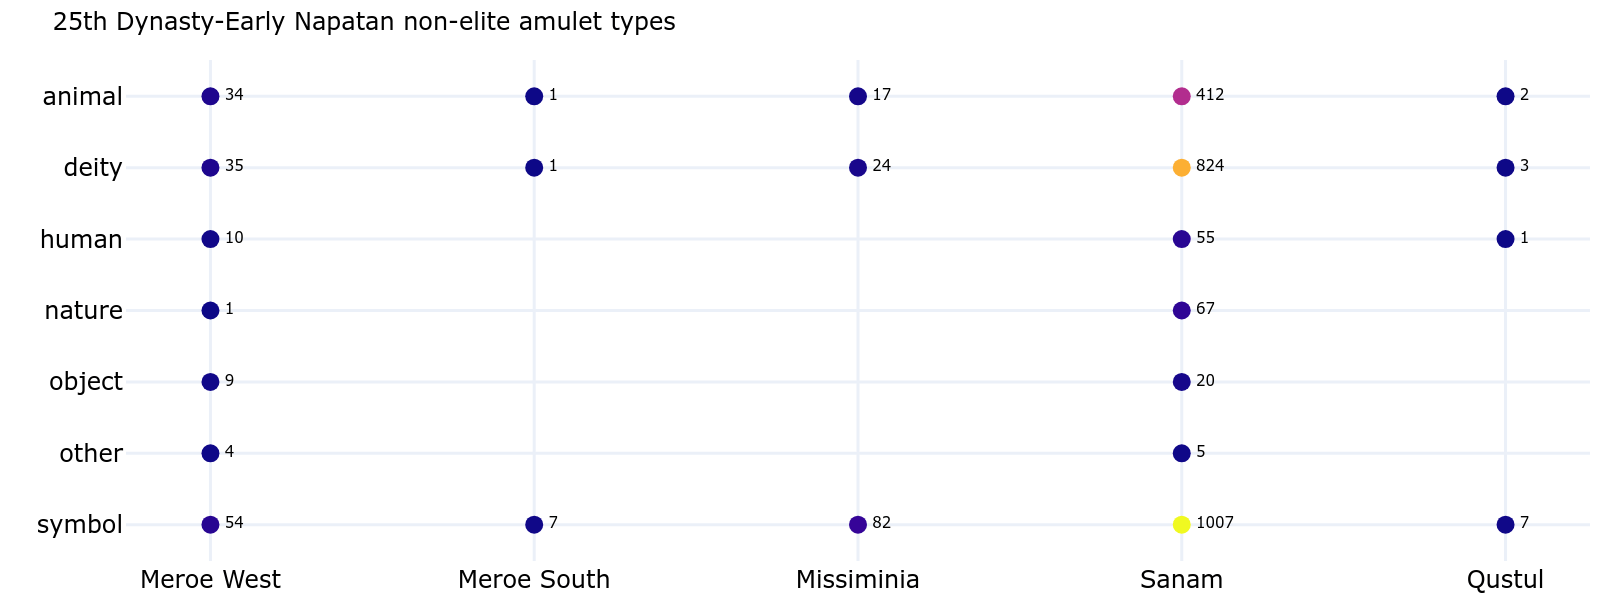
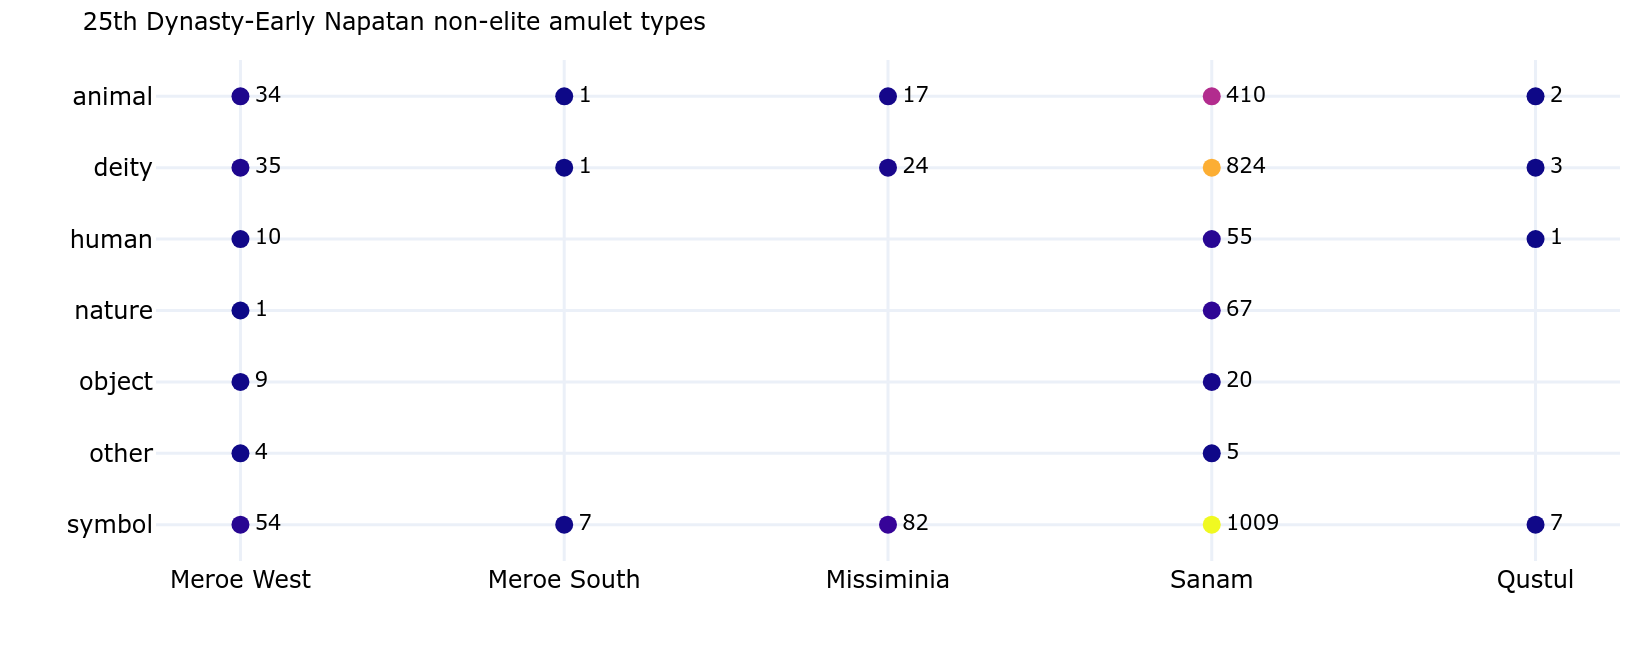
revision chapter 5, until 25th-EN

diff --git a/chapters/5-chapter5.tex b/chapters/5-chapter5.tex
@@ -836,13 +836,13 @@ Conversely, the three amethyst amulets were found in different tombs and represe
 \end{figure}
 
 
-Non-elite tombs from the 25th Dynasty-Early Napatan phase were distributed across Meroe South (19), Meroe West (56), Missiminia (135), Qustul (32) and Sanam (1421) (Figure \ref{fig:25-EN-tombs}). All graves from the latter two sites were dated to this period. In total, there are 1674 burials. The structures were not much different from previous non-elite tombs, with the majority of substructures as pits. Although, two burials from Sanam were found in staircases of previous tombs and, therefore, were considered a different category. It is likely that these were members of the same family who were interred afterwards. According to the reports, 72 graves from both cemeteries at Meroe lacked any superstructure. The remaining graves appear to have been covered by one, its original form unknown.
+Non-elite tombs from the 25th Dynasty-Early Napatan phase were distributed across Meroe South (19), Meroe West (56), Missiminia (135), Qustul (32) and Sanam (1421) (Figure \ref{fig:25-EN-tombs}). All graves from the latter two sites were dated to this period. In total, there are 1674 burials. The structures were not much different from previous non-elite tombs, with the majority of substructures as pits. Although, two burials from Sanam were found in staircases of previous tombs and, therefore, were considered a different category. These burials could either be intrusive or belong to members of the same family who were interred afterwards. According to the reports, 72 graves from both cemeteries at Meroe lacked any superstructure. The remaining graves appear to have been covered by one, although its original form could not be determined.
 
 
-These tombs exhibited a wider variety of architectural features than previous non-elite tombs. The distribution of these features, however, was highly uneven, with most occurring infrequently (Figure \ref{fig:25-EN-tomb-elements}). Trenches were the most widespread feature, present at most sites with the exception of Qustul. These trenches may have functioned to accommodate burial bed legs or for the storage of grave goods. In contrast, bed holes were far rarer, found in just over 2\% of tombs and absent at Missiminia and Sanam.
+These tombs exhibited a wider variety of architectural features than previous non-elite tombs. The distribution of these features, however, was highly uneven, with most occurring infrequently (Figure \ref{fig:25-EN-tomb-elements}). Trenches were the most widespread feature, present at most sites, with the exception of Qustul. These trenches may have functioned to accommodate burial bed legs or for the storage of grave goods. In contrast, bed holes were far rarer, found in just over 2\% of tombs and absent at Missiminia and Sanam.
 
 
-The most common feature was the brick-lined pit, present in over 46\% of burials across Missiminia, Qustul, and Sanam. This was followed by brick roofs (13\%) and niches (8.1\%). Access to burial pits varied: at Missiminia, pits were entered via stairs or slopes (with stairs being more popular), while at Sanam, only stairs were used.
+The most common feature was the brick-lined pit, present in over 46\% of burials across Missiminia, Qustul, and Sanam. This was followed by brick roofs (13\%) and niches (8.1\%). Access to burial pits varied: at Missiminia, pits could be entered via stairs or slopes (with stairs being more popular), while at Sanam, if there was an entrance, it was always stairs.
 
 
 The combination of features also differed by cemetery. The tombs at Meroe South and West had less elements, with 35 tombs containing only bed holes and trenches. Qustul was a little more diverse, with 19 graves featuring a combination of niches, bed holes and brick-lined pits. Sanam incorporated five different features, while Missiminia was the most heterogeneous, containing six different structural elements.
@@ -859,16 +859,19 @@ The combination of features also differed by cemetery. The tombs at Meroe South 
 \end{figure}
 
 
-25th Dynasty-Early Napatan assemblages feature 29 distinct object types, with Sanam being the most diverse (26) (Figure \ref{fig:25-EN-objs}). Meroe West, South and Qustul feature the least varied assemblage of objects, with thirteen, ten and eight types, respectively. However, these object types were not distributed across many tombs as over half of the total did not contain any grave goods (54\%). Beads, adornments, vessels and scarabs are among the most widespread objects, with the remaining objects being very scarce in all sites. Only loose beads, adornments, vessels and tools are present in all four sites.
+25th Dynasty-Early Napatan assemblages feature 29 distinct object types, with Sanam being the most diverse (26 different objects) (Figure \ref{fig:25-EN-objs}). Meroe West, South and Qustul feature the least varied assemblages, with thirteen, ten and eight types, respectively. However, these object types were not distributed across many tombs as over half of the total did not contain any grave goods (54\%). Beads, adornments, vessels and scarabs are among the most widespread objects, with the remaining objects being very scarce in all sites. Only loose beads, adornments, vessels and tools are present in all four sites.
 
 
-The variety of grave goods is comparable with 25th Dynasty royal tombs, which also included 29 different objects. However, exclusive items were found in this non-elite phase, including incense burners, ostraca, palettes and seals. These items were all included at either Sanam and Missiminia and were extremely rare. Additionally, these objects could have been used in daily life and, afterwards, buried with the deceased. Burial-exclusive objects, such as bead nets, canopics, offering tables and mummy trappings, were mainly found in Sanam and Missiminia. Burial containers, either preserved or traces of them, were absent from Meroe South. Four tombs from Meroe West included a coffin, while the remaining three had burial beds. Only coffins were present in 30 tombs at Missiminia, while the four tombs from Qustul suggested the use of burial beds. At Sanam, less than 3\% of burials contained remains of cartonnage which could indicate the use of a coffin, but not necessarily; and only five of those tombs contained definite indications of a coffin.
+The variety and types of grave goods is comparable with 25th Dynasty royal tombs. This context, however, includes exclusive items, absent from previous phases and social contexts. They include incense burners, ostraca, palettes and seals, all from either Sanam and Missiminia, and were extremely rare. Additionally, most of the objects could have been used in daily life and, afterwards, buried with the deceased. Burial-exclusive objects, such as bead nets, canopics, offering tables and mummy trappings, were mainly found in Sanam and Missiminia. Burial containers, either preserved or traces of them were found in all sites, except Meroe South. Four tombs from Meroe West included a coffin, while the remaining three had burial beds. Traces of coffins were present in 30 tombs at Missiminia, while four tombs from Qustul suggested the use of burial beds. At Sanam, less than 3\% of burials contained remains of cartonnage which could indicate the use of a coffin, but only five of those tombs contained definite indications of a coffin.
 
 
 \subsubsection{Amulets}
 
 
 \paragraph{Amulet distribution}
+
+
+This phase boasted the highest number of amulets, a total of 2682 distributed across 379 tombs (Table \ref{tab:25-EN-distro}). The Meroe cemeteries had the highest prevalence, with amulets found in over 30\% of tombs in each site. This is contrasted by Sanam, where, despite the large number of graves, only 23\% contained at least one amulet. The distribution was even lower at Qustul (17\%) and Missiminia (13\%). Despite the low prevalence of amulets in Sanam, the site contained the largest individual assemblages. For instance, tombs 1516 and 927 held over 200 amulets each.
 
 
 {\small
@@ -901,13 +904,10 @@ The variety of grave goods is comparable with 25th Dynasty royal tombs, which al
 }
 
 
-Tombs from the 25th Dynasty-Early Napatan phase were not only the most numerous but also contained the greatest quantity of amulets―a total of 2682 spread across 379 burials (Table \ref{tab:25-EN-distro}). The Meroe cemeteries had the highest prevalence, with amulets found in over 30\% of tombs in each site. This is contrasted by Sanam, where, despite the large number of graves, only 23\% contained at least one amulet. The rates were even lower at Qustul (17\%) and Missiminia (13\%). Despite the low prevalence of amulets in Sanam, the site contained the largest individual assemblages. For instance, tombs 1516 and 927 held over 200 amulets each.
-
-
 \paragraph{Amulet types}
 
 
-\begin{figure}
+\begin{figure}[H]
 	\centering
 	\includegraphics[width=1\textwidth]{25-EN-types}
 	\caption{Distribution of amulet types in 25th Dynasty-Early Napatan non-elite tombs.}
@@ -915,7 +915,7 @@ Tombs from the 25th Dynasty-Early Napatan phase were not only the most numerous 
 \end{figure}
 
 
-Sanam and Meroe West were the only cemeteries where all amulet types were found, including the new category of human amulets (Figure \ref{fig:25-EN-types}). However, these amulets were not found in all sites, being absent from Meroe South and Missiminia. Four amulet types were present at Qustul, while only three were present at both Meroe South and Missiminia (animals, deities and symbols). At all sites, symbols were the most popular type of amulet. At Sanam, Qustul, and Missiminia, they are followed by deity amulets, but at Meroe West, the second most common amulet are those of animals, while at Meroe South, animal and deity motifs had only one instance each.
+Sanam and Meroe West were the only cemeteries where all amulet types were found, including the new category of human motifs (Figure \ref{fig:25-EN-types}). However, human amulets were not found in all sites, being absent from Meroe South and Missiminia. Four amulet types were present at Qustul, while only three were present at both Meroe South and Missiminia (animals, deities and symbols). At all sites, symbols were the most popular type of amulet. At Sanam, Qustul, and Missiminia, they are followed by deity amulets, but at Meroe West, the second most common are animals. In contrast, Meroe South, animal and deity motifs had only one instance each.
 
 
 \paragraph{Amulet motifs}
@@ -929,7 +929,7 @@ Sanam and Meroe West were the only cemeteries where all amulet types were found,
 \end{figure}
 
 
-A total of 24 distinct deities are depicted in 25th Dynasty-Early Napatan amulets (Figure \ref{fig:25-EN-deity-motifs}). Apart from those, there are 29 amulets of unidentified deities, including one with a group of deities. Geographically, they were found in all sites, with Sanam accounting for 23 deity motifs, of which thirteen were only found there. Meroe West comprised ten different motifs, without any exclusive to this site, while Meroe South only included an amulet fragment of a lion-headed deity, possibly a goddess. Similarly, Qustul was home to two deity amulets, one of Bes and another of Hathor. At Missiminia, there were amulets of six deities.
+A total of 24 distinct deities are depicted in 25th Dynasty-Early Napatan amulets (Figure \ref{fig:25-EN-deity-motifs}). Apart from those, there are 29 amulets of unidentified deities, including one with a group of deities. Geographically, they were found in all sites, with Sanam accounting for 23 motifs, of which thirteen were only found there. Meroe West comprised ten different motifs, without any exclusive to this site, while Meroe South only included a fragment of a lion-headed deity. Qustul was home to two deity amulets, one of Bes and another of Hathor. At Missiminia, there were amulets of six deities: Pataikos, Bes, Isis, Hathor, Isis and Horus, and Taweret. In contrast to previous phases, amulets of Sekhmet were the most popular, followed by Pataikos, Bes, Isis and Hathor. This is also the only phase to include amulets of the deities Khonsu, Neith, and Min, all from Sanam.
 
 
 \begin{figure}[H]
@@ -940,7 +940,7 @@ A total of 24 distinct deities are depicted in 25th Dynasty-Early Napatan amulet
 \end{figure}
 
 
-Regarding specific motifs, the eight amulets from Sanam of Hapi, the Nile god are the first ones found in any burials since one instance from 25th Dynasty royal grave (Figure \ref{fig:25-EN-hapi-plaques}). These nine amulets are the only ones in the corpus. Similarly, two winged lion-headed goddess also from Sanam are the only ones from a non-royal context (Figure \ref{fig:25-EN-winged-lioness}).
+Regarding specific motifs, there are eight plaque amulets from Sanam of Hapi, the Nile god, which are the first ones found in any burials since one instance from a 25th Dynasty royal grave (Figure \ref{fig:25-EN-hapi-plaques}). Similarly, two winged lion-headed goddess, also from Sanam, are the only ones from a non-royal context (Figure \ref{fig:25-EN-winged-lioness}). They are depicted in different positions, similar to the royal ones, one sideways and another facing frontward, with a prominent belly and tights. Both also have the sun disc and \textit{uraeus} on top of their heads.
 
 \begin{wrapfigure}{l}{0.5\textwidth}
 	\centering
@@ -950,10 +950,7 @@ Regarding specific motifs, the eight amulets from Sanam of Hapi, the Nile god ar
 	\label{fig:25-EN-winged-lioness}
 \end{wrapfigure}
 
-Two amulets are puzzling as they depict a goddess (one winged) with a child. They could potentially be different designs to represent the standard Isis and Horus motif. Figure \ref{fig:25-EN-isis-horus} shows the different designs of this motif from distinct sites. The first amulet depicts a classic seated Isis, seemingly crowned with a sun disc and \textit{uraeus}, holding Horus on her lap. The second image, from Missiminia, displays a winged goddess wearing the Hathor crown with a child either seated by her feet or on her lap. Finally, the last motif is of two figures side-by-side, the one on the left also sporting the Hathor/Isis crown. They appear to be staring and embracing each other. This motif is particularly intriguing as nothing like it was found. Additionally, Griffith describes it as “Isis nursing Horus, barbaric” \parencites[p.~135]{griffithOxfordExcavationsNubia1923}. Unfortunately, I was not able to find the current location of this amulet in order to analyze a better picture. This amulet is also similar to some erotic amulets, where two human figures are next to each other and one seems to be kissing the other. In any case, it is a very unique representation of Hathor or Isis with another figure without any distinguishable features. Similarly, the amulet from Missiminia amulet could also be a unique depiction of Isis and Horus, adding the wings to the goddess and excluding the nursing action. However, Vila proposed the possibility that this motif could also be of Hathor presenting the god Khonsu \parencites[p.~53]{vilaNécropoleMissiminiaSépultures1980}.
-
-
-Other individual amulets of deities include one of a hawk-headed dwarf wearing the hemhem crown, which could be a representation of the god Bes; another amulet of Bes in a novel Nubian style found especially in post-New Kingdom non-elite burials from Buhen, Amara West, and the Faras and Kawa/Napata regions \parencites{petacchiLocalAspectsCult2014}. Finally, an amulet of a Hathor head from Qustul is similar in style to the Bes from Missiminia (Figure \ref{fig:25-EN-deity-pics})
+One particular motif is puzzling as it depicts a winged goddess with a child, which could potentially represent the standard Isis and Horus motif. The first picture in Figure \ref{fig:25-EN-isis-horus} show the classic design of a seated Isis, crowned with a sun disc and \textit{uraeus}, holding Horus on her lap. The second image, from Missiminia, displays the intriguing amulet of a winged goddess wearing the Hathor crown with a child either seated by her feet or on her lap. Vila raises the possibility that it represents Hathor presenting a child Khonsu \parencites[p. 53]{vilaNécropoleMissiminiaSépultures1980}. The last amulet from \ref{fig:25-EN-isis-horus} is also intriguing. It depicts two figures side-by-side, the one on the left also sporting the Hathor/Isis crown. They appear to be staring and embracing each other. This motif is particularly intriguing as nothing like it was found. Additionally, Griffith describes it as “Isis nursing Horus, barbaric” \parencites[p.~135]{griffithOxfordExcavationsNubia1923}. Unfortunately, I was not able to find the current location of this amulet in order to analyze a better picture. This amulet is also similar to some erotic amulets, where two human figures are next to each other and one seems to be kissing the other. It is possible that it may represent an intimate scene between Isis and Osiris. Additionally, the incisions on their bodies could be an indication of mummification, reinforcing the Osiris interpretation. In any case, both amulets are very unique and their design look very Nubian in style.
 
 
 \begin{figure}[H]
@@ -965,27 +962,30 @@ Other individual amulets of deities include one of a hawk-headed dwarf wearing t
 	\begin{minipage}{0.30\textwidth}
 		\includegraphics[width=\textwidth, height=4cm, keepaspectratio]{25-EN-37-5}
 	\end{minipage}
-	\hspace{-25mm}%
+	\hspace{-20mm}%
 	\begin{minipage}{0.30\textwidth}
 		\includegraphics[width=\textwidth, height=4cm, keepaspectratio]{25-EN-LVI.15}
 	\end{minipage}
-	\caption{Amulets of Isis and Horus in different designs, from Meroe West, Missiminia and Sanam (MFA 23.337, \parencites[p.~52, fig. 37, 5]{vilaNécropoleMissiminiaSépultures1980}[pl.~LVI.15]{griffithOxfordExcavationsNubia1923}}
+	\caption{Amulets of Isis and Horus in different designs, from Meroe West (MFA 23.337), Missiminia \parencites[p.~52, fig. 37, 5]{vilaNécropoleMissiminiaSépultures1980}, and Sanam \parencites[pl.~LVI.15]{griffithOxfordExcavationsNubia1923}}
 	\label{fig:25-EN-isis-horus}
 \end{figure}
 
 
+Other individual amulets of deities include one of a hawk-headed dwarf wearing the \textit{hmhm} crown, which could be a representation of the god Bes. This motif is similar to the ram-headed dwarf amulet form a 25th Dynasty royal burial, although both sport different crowns and animal heads. A amulet of Bes from Missiminia is represented in a novel Nubian style found especially in post-New Kingdom non-elite burials from Buhen, Amara West, and the Faras and Kawa/Napata regions \parencites{petacchiLocalAspectsCult2014}. Similarly, an amulet of a Hathor head from Qustul also featured a very unique representation (Figure \ref{fig:25-EN-deity-pics})
+
+
 \begin{figure}[H]
 	\centering
-	\begin{minipage}{0.30\textwidth}
-		\includegraphics[width=\textwidth, height=3cm, keepaspectratio]{25-EN-LV9}
+	\begin{minipage}{0.3\textwidth}
+		\includegraphics[width=\textwidth, height=4cm, keepaspectratio]{25-EN-LV9}
 	\end{minipage}
 	\hspace{-30mm}%
-	\begin{minipage}{0.30\textwidth}
-		\includegraphics[width=\textwidth, height=3cm, keepaspectratio]{25-EN-61-4}
+	\begin{minipage}{0.3\textwidth}
+		\includegraphics[width=\textwidth, height=4cm, keepaspectratio]{25-EN-61-4}
 	\end{minipage}
 	\hspace{-30mm}%
-	\begin{minipage}{0.30\textwidth}
-		\includegraphics[width=\textwidth, height=3cm, keepaspectratio]{25-EN-VB25-2}
+	\begin{minipage}{0.3\textwidth}
+		\includegraphics[width=\textwidth, height=4cm, keepaspectratio]{25-EN-VB25-2}
 	\end{minipage}
 	\caption{Amulets depicting a hawk-headed dwarf, Bes and Hathor \parencites[pl.~LV.9]{griffithOxfordExcavationsNubia1923}[p.~69, fig. 61, 4]{vilaNécropoleMissiminiaSépultures1980}[p.~74, fig. 25, c]{williamsExcavationsAbuSimbel1990}}
 	\label{fig:25-EN-deity-pics}
@@ -1008,13 +1008,10 @@ Other individual amulets of deities include one of a hawk-headed dwarf wearing t
 \end{wrapfigure}
 
 
-Amulets of the \textit{udjat} and quadruple \textit{udjat} were included in a separate graph, as they were among the most numerous (Figure \ref{fig:25-EN-udjat}). For the latter motif, four \textit{udjat} were combined in order to form a single amulet (Figure \ref{fig:25-EN-udjat-pic}). \textit{udjat} amulets were found in all five sites, although in different quantities, which is proportionate with the number of tombs in each site. Percentage wise, the udjat comprises 35\% of all amulets from this phase.
+Amulets of the \textit{udjat} and quadruple \textit{udjat} were included in a separate graph, as they were among the most numerous (Figure \ref{fig:25-EN-udjat}). For the latter motif, four \textit{udjat} were combined in order to form a single amulet (Figure \ref{fig:25-EN-udjat-pic}). \textit{Udjat} amulets were found in all five sites, although in different quantities. Percentage wise, the udjat comprises 35\% of all amulets from this phase. Qustul and Meroe South contained the least amount of this motif (four and seven, respectively), while Missiminia accounted for 28, Meroe West for 46 and Sanam with the highest amount, 845.
 
 
-Tombs from the Meroe region were the only ones which lacked any amulets of the quadruple \textit{udjat}. This absence may indicate regional variations in amulet motifs, which will be explored in a later section. There is a total of 122 examples with this motif, which were rarer in burials dated exclusively to the 25th Dynasty, when only a single quadruple \textit{udjat} was found.
-
-
-The remaining symbol amulets included several motifs previously restricted to royal or elite burials (Figure \ref{fig:25-EN-symbol-motifs}). These include the heart, \textit{djed}, \textit{menat} and \textit{nefer} amulets. Furthermore, the ram-headed sphinx, winged scarab and sphinx motifs were previously only known from 25th Dynasty royal graves. Amulets of the \textit{ankh} and \textit{sa} signs, which had been confined to Early Napatan elite tombs, also appeared. This phase also introduced unique motifs such as the horned lunar disc, lunar crescent, and sun disc. In contrast, the Isis knot and \textit{uraeus} were already widespread across different social and chronological contexts.
+Meroe South was the only site without any amulets of the quadruple \textit{udjat}---although Meroe West contained only one and Qustul, two. This absence may indicate regional variations in amulet motifs, which will be explored in a later section. There is a total of 122 examples of the quadruple \textit{udjat}, which were rarer in burials dated solely to the 25th Dynasty, which may indicate that the motif was widespread in both phases, 25th Dynasty and Early Napatan.
 
 
 \begin{figure}[H]
@@ -1025,13 +1022,16 @@ The remaining symbol amulets included several motifs previously restricted to ro
 \end{figure}
 
 
-The distribution of these amulets across sites varied. Sanam was the most diverse, comprising eleven motifs, seven of which were exclusive to the site. Missiminia included five motifs (three exclusive), while Meroe West accounted for three motifs, none of which were unique. No other symbol amulets―apart from the \textit{udjat} and quadruple \textit{udjat}―were found in Qustul or Meroe South.
+The remaining symbol amulets included several motifs previously restricted to royal or elite burials (Figure \ref{fig:25-EN-symbol-motifs}). These include the heart, \textit{djed}, \textit{menat} and \textit{nefer} amulets. Furthermore, winged scarab and the ram-headed, and human-headed sphinxes motifs were previously only known from 25th Dynasty royal graves. Amulets of the \textit{ankh} and \textit{sa} signs, which had been confined to Early Napatan elite tombs, are also present. Additionally, this phase introduced unique motifs such as the horned lunar disc, lunar crescent, and sun disc. Among these, the most common motif was the heart, comprising of only eight examples though.
 
 
-Amulets depicting animals are much more diverse than previous non-elite assemblages as well as those of royalty and elite (Figure \ref{fig:25-EN-animal-motifs}). All sites from this phase included at least one animal amulet, as is the case with Qustul, where only one crocodile amulet was found, and Meroe South, with one ram amulet. Sanam contains not only the most diverse assemblage of animal amulets, 26 out of the 29 total motifs, but also the biggest amount. Furthermore, Sanam was home to 15 exclusive motifs. Meroe West comprised 11 motifs, with a single exclusive one, a crocodile with a hawk's head. Missiminia included six motifs, with birds being exclusive to the site.
+The distribution of these amulets across sites varied. Sanam was the most diverse, with eleven motifs, seven of which were exclusive to the site. Missiminia included five (three exclusive), while Meroe West accounted for three motifs, none of which were unique to the site. No other symbol amulets---apart from the \textit{udjat} and quadruple \textit{udjat}---were found in Qustul or Meroe South.
 
 
-Frogs are the most widespread animal motif, present in Sanam, Meroe West and Missiminia. Four amulets depicting two frogs, joined either side-by-side or behind, were found at Sanam (Figure \ref{fig:25-EN-frogs}). Sows were also a popular amulet, they were sometimes depicted with piglets. Furthermore, two hippopotamus amulets were found at Meroe West and Sanam and their design is similar to the sow ones, featuring both quadrupeds in a walking pose, with their nose on the ground, as if searching for food (Figure \ref{fig:25-EN-sows}). In fact, the only other hippo amulet in the corpus was found in a non-elite 25th Dynasty burial.
+Amulets depicting animals are much more diverse than previous non-elite assemblages as well as those of royalty and elite (Figure \ref{fig:25-EN-animal-motifs}). All sites from this phase included at least one animal amulet, as is the case with Qustul, where only one crocodile amulet was found, and Meroe South, with one ram amulet. Sanam contains not only the most diverse assemblage of animal amulets, 26 out of the 29 total motifs, but also the biggest amounts. Furthermore, Sanam was home to 15 exclusive motifs. Meroe West comprised 11 motifs, with a single exclusive one, a crocodile with a hawk's head. Missiminia included six motifs, with birds being exclusive to the site.
+
+
+Frogs are the most widespread animal motif, present in Sanam, Meroe West and Missiminia. Four amulets depicting two frogs, joined either side-by-side or behind, were found at Sanam (Figure \ref{fig:25-EN-frogs}). They were followed by cats, flies, sows, rams, scorpions and monkeys, all with more than 20 instances each. It is notable that these motifs mostly depict regional animals and not necessarily associated with an Egyptian deity, apart from cats and rams. Amulets of sows were oftentimes depicted with piglets. Furthermore, two hippopotamus amulets were found at Meroe West and Sanam and their design is similar to the sow ones, featuring both quadrupeds in a walking pose, with their nose on the ground, as if searching for food (Figure \ref{fig:25-EN-sows}). In fact, the only other hippo amulet in the corpus was found in a non-elite 25th Dynasty burial. Other exclusive non-elite amulets to this phase also depict regional animals, such as bulls, crocodiles, the double frogs, ducks, fishes, hares, hedgehogs, pigs, scorpions and snakes, comprising 16\% of all animal amulets from this particular context.
 
 
 \begin{figure}[H]
@@ -1058,7 +1058,9 @@ Frogs are the most widespread animal motif, present in Sanam, Meroe West and Mis
 \end{figure}
 
 
-Scarabs as amulets make their first appearance in 25th Dynasty-Early Napatan assemblages. These motifs could be depicted in different forms. For instance, Sanam included scarabs with spread legs and one with the legs tucket in and a ram's head (Figure \ref{fig:25-EN-scarabs}). One of the ram amulets found at Missiminia is particularly interesting as it is considerable different form those at royal tombs, although is does include an \textit{uraeus} (Figure \ref{fig:25-EN-animal-pics}, upper right). Three four-headed rams were found at Sanam, this motif was previously found in royal tombs of the Middle Napatan phase and non-elite ones from the 25th Dynasty.
+Scarabs as amulets make their first appearance in this assemblage. These motifs could be depicted in different forms. For instance, Sanam included scarabs with spread legs and one with the legs tucket in and a ram's head (Figure \ref{fig:25-EN-scarabs}). One of the ram amulets found at Missiminia has a unique design, different from those at royal tombs, although it does include an \textit{uraeus} (Figure \ref{fig:25-EN-animal-pics}, second). Three four-headed rams were found at Sanam, which were previously found in royal tombs of the Middle Napatan phase and non-elite ones from the 25th Dynasty.
+
+Some motifs are particular noteworthy as they combined different animal features. For instance, a crocodile with a hawk's head, lion-headed flies (Figure \ref{fig:25-EN-animal-pics}, first and third) and the scarab with a ram's head. Apart from the lion-headed flies, the remaining motifs have no parallels in the corpus.
 
 
 \begin{figure}[H]
@@ -1081,13 +1083,10 @@ Scarabs as amulets make their first appearance in 25th Dynasty-Early Napatan ass
 		\begin{minipage}{0.55\textwidth}
 			\includegraphics[width=\linewidth, height=4cm, keepaspectratio, clip, trim={0.5cm 0.5cm 0.5cm 0.5cm}]{25-EN-47.3023}
 		\end{minipage}
-		\caption{Amulets of lion-headed flies, a ram's head with \textit{uraeus}, and a hawk-headed crocodile \parencite[pl.~LVII.21, 22]{griffithOxfordExcavationsNubia1923} (MFA 47.3023)}
+		\caption{Amulets of lion-headed flies, a ram's head with \textit{uraeus}, and a hawk-headed crocodile (\cites[pl.~LVII.21, 22]{griffithOxfordExcavationsNubia1923}[p. 87, fig. 87, 2]{vilaNécropoleMissiminiaSépultures1980}, MFA 47.3023)}
 		\label{fig:25-EN-animal-pics}
 	\end{minipage}
 \end{figure}
-
-
-Some motifs are particular noteworthy as they combined different animal features. For instance, a crocodile with a hawk's head, lion-headed flies (Figure \ref{fig:25-EN-animal-pics}, upper left and bottom) and a scarab with a ram's head. Apart from the lion-headed flies, the remaining motifs have no parallels in the corpus. Other exclusive non-elite amulets to this phase includes those representing bulls, crocodiles, the double frogs, ducks, fishes, hares, hedgehogs, pigs, scorpions and snakes, comprising 16\% of all animal amulets form this particular context.
 
 
 \begin{figure}[H]
@@ -1098,7 +1097,7 @@ Some motifs are particular noteworthy as they combined different animal features
 \end{figure}
 
 
-Among the remaining amulet categories, Sanam stands out, once again, with the greatest diversity, featuring 17 different ones―13 of which are exclusive to the site (Figure \ref{fig:25-EN-rest-motifs}). In contrast, Meroe West yielded eight different motifs (five exclusive) and Qustul, which included only one eye amulet. No amulets from these categories were found at Missiminia or Meroe South.
+Among the remaining amulet categories, Sanam stands out, once again, with the greatest diversity, featuring 17 different ones---13 of which are exclusive to the site (Figure \ref{fig:25-EN-rest-motifs}). In contrast, Meroe West yielded eight different motifs (five exclusive) and Qustul, which included only one eye amulet. No amulets from these categories were found at Missiminia or Meroe South.
 
 
 \begin{figure}[H]
@@ -1143,7 +1142,7 @@ Nature motifs feature papyrus columns, lotus flowers, a pomegranate and an unide
 \end{figure}
 
 
-Human figures and body parts were more distributed between the sites. Most eye and hand motifs, and all instances of double eyes, naked female, a human with a sun disc (possibly an unidentified deity) and man on a horse were found at Sanam (Figures \ref{fig:25-EN-humans}, \ref{fig:25-EN-eyes}). At Meroe West, there were two amulets of hands and all amulets of boys and twin boys. Only one eye amulet came from Qustul. Among the miscellaneous motifs are an amulet case stuffed with organic material and a golden nugget, both from Meroe West.
+Human figures and body parts were more distributed between the sites. Most eye and hand motifs, and all instances of double eyes, naked female, a human with a sun disc (possibly an unidentified deity) and man on a horse were found at Sanam (Figures \ref{fig:25-EN-humans}, \ref{fig:25-EN-eyes}). At Meroe West, there were two amulets of hands and all amulets of boys and twin boys. Only one eye amulet came from Qustul. The man on horse motif is the only one in the corpus and the naked female is very Nubian in design, similar to figurines, with incised decoration, and prominent belly and thighs. Among the miscellaneous motifs are an amulet case stuffed with organic material and a golden nugget, both from Meroe West.
 
 
 \paragraph{Amulets with multiple motifs}
@@ -1155,6 +1154,9 @@ Human figures and body parts were more distributed between the sites. Most eye a
 	\caption{Distribution of amulet combining two motifs in 25th Dynasty-Early Napatan non-elite tombs.}
 	\label{fig:25-EN-2motifs}
 \end{figure}
+
+
+A total of 55 amulets from Sanam, Missiminia, Qustul and Meroe West feature two motifs, fourteen of which are plaques. The most popular is the combination of \textit{udjat} with \textit{ankh}, which appears in 21 amulets (Figure \ref{fig:25-EN-2motifs}). The remaining combinations are far rarer, with the majority being unique.
 
 
 \begin{figure}[H]
@@ -1170,20 +1172,18 @@ Human figures and body parts were more distributed between the sites. Most eye a
 	\begin{minipage}{0.30\textwidth}
 		\includegraphics[width=\textwidth, height=4cm, keepaspectratio]{25-EN-320-13}
 	\end{minipage}
-	\caption{Amulet of a Pataikos crowned by a winged scarab, with an incised jackal on the reverse; and Bes head on top of Amun, Mut and Khonsu (MFA 24.781, \parencites[p.~128, fig. 139, 2]{vilaNécropoleMissiminiaSépultures1980}}
+	\caption{Amulet of a Pataikos crowned by a winged scarab, with an incised jackal on the reverse; and a Bes head on top of Amun, Mut and Khonsu (MFA 24.781, \cites[p.~128, fig. 139, 2]{vilaNécropoleMissiminiaSépultures1980})}
 	\label{fig:25-EN-2motifs-pics}
 \end{figure}
 
 
-A total of 55 amulets from Sanam, Missiminia, Qustul and Meroe West feature two motifs, fourteen of which are plaques. The most popular is the combination of \textit{udjat} with \textit{ankh}, which appears in 21 amulets (Figure \ref{fig:25-EN-2motifs}). The remaining combinations are far rarer, with the majority being unique.
+Similarly to some royal and non-elite 25th Dynasty amulets, three examples depict a winged lion-headed goddess on the back of a Pataikos. A particular amulet even features two Pataikos back-to-back. Animal motifs are frequent, appearing in combinations, such as a hippopotamus with a lion and a crocodile; an \textit{udjat} with a double ram and apes; and a Pataikos with a jackal (Figure \ref{fig:25-EN-2motifs-pics}, first). A ram-headed sphinx is also paired with an \textit{uraeus}.
 
 
-
-Similarly to some royal and non-elite 25th Dynasty amulets, three examples depict a winged lion-headed goddess standing on the back of a Pataikos. A particular amulet even features two Pataikos back-to-back. Animal motifs are frequent, appearing in combinations such as a hippopotamus with a lion and a crocodile; an \textit{udjat} with a double ram and apes; and a Pataikos with a jackal (Figure \ref{fig:25-EN-2motifs-pics}, first). A ram-headed sphinx is also paired with an \textit{uraeus}.
-
+Deities are well represented in these amulets, with a variety including Amun, Mut, Khonsu, Hathor, Horus, Onuris, Pataikos, Ra-Horakhty, Sekhmet, Thoth, Bes and Tefnut. One particularly unique amulet depicts the Theban triad (Amun, Mut and Khonsu) positioned beneath the head of Bes, or, perhaps, being embraced by the god (Figure \ref{fig:25-EN-2motifs-pics}, second). Finally, symbols of natural elements with symbolic meanings like lunar crescents, feathers, lotus and sun discs were also paired with deities.
 
 
-Deities are well represented in these amulets, with a variety including Amun, Mut, Khonsu, Hathor, Horus, Onuris, Pataikos, Ra-Horakhty, Sekhmet, Thoth, Bes and Tefnut. One particularly unique amulet depicts the Theban triad (Amun, Mut and Khonsu) positioned beneath the head of Bes, or, perhaps, being embraced by the god (Figure \ref{fig:25-EN-2motifs-pics}, second). Finally, symbols of natural elements with symbolic meanings like lunar crescents, feathers, lotus and sun discs were also featured.
+Amulets featuring three motifs were exclusive to Sanam and Meroe West, totaling 27 instances (Table \ref{tab:25-EN-3motifs}). The most common combination was the sun boat with an \textit{uraeus} and \textit{hmhm} crown, of which the 15 total instances were found in a single grave from Sanam. The \textit{udjat} appeared in the most varied combinations, paired with elements such as a basket and papyrus; cat and vulture wings (Figure \ref{fig:25-3motifs-pics}, top left); arms and the \textit{ankh}; and with an \textit{uraeus} and ram. Another amulet has the sun disc between two \textit{uraeus} on top of lotus flowers (Figure \ref{fig:25-3motifs-pics}, top right).
 
 
 {\small
@@ -1228,6 +1228,9 @@ Deities are well represented in these amulets, with a variety including Amun, Mu
 		Qustul & hippo & jackal & crocodile & 1 \\
 	\end{xltabular}
 }
+
+
+The \textit{uraeus} was the most frequently combined motif, often paired with animals and nature symbols such as monkeys, fishes and crocodiles. This thematic connection is also seen in a plaque featuring only animals: a hippopotamus, jackal and crocodile. A particular plaque shows a ram-headed sphinx on the front and a hieroglyphic inscription on the back (\ref{fig:25-3motifs-pics}, a, b). Deities were also represented, including a plaque of Horus standing on a crocodile with two scorpions on the reverse (\ref{fig:25-3motifs-pics}, c, d), and another depicting Hathor with an \textit{uraeus} and a winged scarab. Finally, one unique amulet was described as a pillar crowned with a disc and feathers.
 
 
 \begin{figure}[H]
@@ -1276,11 +1279,6 @@ Deities are well represented in these amulets, with a variety including Amun, Mu
 \end{figure}
 
 
-Amulets featuring three motifs were exclusive to Sanam and Meroe West, totaling 27 instances (Figure \ref{tab:25-EN-3motifs}). The most common combination was the sun boat with an \textit{uraeus} and hmhm crown, of which the 15 total instances were found in a single grave from Sanam. The \textit{udjat} appeared in the most varied combinations, paired with elements like a basket and papyrus; a cat and vulture wings (Figure \ref{fig:25-3motifs-pics}, top left); arms and \textit{ankh}; or an \textit{uraeus} and a ram. Another amulet has the sun disc between two \textit{uraeus} and on top of lotus flowers (Figure \ref{fig:25-3motifs-pics}, top right).
-
-The \textit{uraeus} was the most frequently combined motif, often paired with animals and nature symbols such as monkeys, fishes and crocodiles. This thematic connection is also seen in a plaque featuring only animals―a hippopotamus, jackal and crocodile. A particular plaque shows a ram-headed sphinx on the front and the sun boat with a jackal on the back (\ref{fig:25-3motifs-pics}, a, b). Deities were also represented, including a plaque of Horus standing on a crocodile with two scorpions on the reverse (\ref{fig:25-3motifs-pics}, c, d), and another depicting Hathor with an \textit{uraeus} and a winged scarab. Finally, one unique amulet was described as a pillar crowned with a disc and feathers.
-
-
 \paragraph{Amulet materials}
 
 
@@ -1300,16 +1298,16 @@ The \textit{uraeus} was the most frequently combined motif, often paired with an
 \end{figure}
 
 
-Faience was the predominant material for amulets, comprising over 82\% of the total assemblage and present at all sites (Figure \ref{fig:25-EN-faience}). The remaining amulets were made from 29 different materials, with Sanam exhibiting the greatest diversity by far (26) (Figure \ref{fig:25-EN-materials}). As with motifs, Sanam also had the most exclusive materials, with 13 not found in the other sites. Meroe West included 12 distinct materials, though none were unique to the site. Missiminia's amulets were composed of six materials, including malachite as an exclusive. Qustul featured steatite, lapis lazuli and jasper, while only steatite and ivory were present at Meroe South.
+Faience was, once again, the most widespread material for amulets, comprising over 82\% of the total assemblage and present at all sites (Figure \ref{fig:25-EN-faience}). Sanam yielded the most amulets, 2007, which is proportionate to the number of amulets. It was followed by 99 instances from Meroe West, 97 from Missiminia, eight from Qustul and seven from Meroe South. The remaining amulets were made from 29 different materials, with Sanam exhibiting the greatest diversity by far (26) (Figure \ref{fig:25-EN-materials}). As with motifs, Sanam also had the most exclusive materials, with 13 not found in the other sites. Meroe West included 12 distinct materials, though none were unique to the site. Missiminia's amulets were composed of six materials, including malachite as an exclusive. Qustul featured steatite, lapis lazuli and jasper, while only steatite and ivory were present at Meroe South.
 
 
-The variety of materials showcases extensive trade networks. Of the 29 materials, 13 were imported from beyond the Nubian territory. These could come from relatively nearby sources like the Egyptian Eastern Desert, Fayum or Sinai (e.g., amazonite, rock crystal, steatite, malachite, quartz, basalt, amethyst, chalcedony, haematite, jasper, travertine) \parencites[p.~505-507, 758-760]{harrellArchaeologyGeologyAncient2024}. These made up 6.7\% of the amulet assemblage.
+The variety of materials showcases extensive trade networks. Of the 29 materials, 13 were imported from beyond the Nubian territory. These could come from relatively nearby sources like the Egyptian Eastern Desert, Fayum or Sinai (e.g., amazonite, rock crystal, steatite, malachite, quartz, basalt, amethyst, chalcedony, haematite, jasper, travertine) \parencites[p.~505-507, 758-760]{harrellArchaeologyGeologyAncient2024}. However, they made up less than 7\% of the assemblage.
 
 
-On the other hand, lapis lazuli and obsidian had to be imported from Afghanistan and Yemen (2.4\%) \parencites[p.~759]{harrellArchaeologyGeologyAncient2024}. Obsidian amulets were unique to this non-elite context and only at Sanam. Eight materials, such as silver, bronze, agate, carnelian, zeolite, granite and onyx, could be sourced from either Nubia or Egypt (5.4\%) \parencites{andrewNoteZeoliteArtefacts1951}[p.~505, 759, 875-876, 929]{harrellArchaeologyGeologyAncient2024}, while ivory and gold were exclusive to the Nubian region (0.7\%). Notably, glass―a more costly material than faience―was not only more common in this phase (32 instances versus one in the previous period) but was also found exclusively in non-elite contexts.
+On the other hand, lapis lazuli and obsidian, coming from much further lands, accounted for 2.4\% of amulets \parencites[p.~759]{harrellArchaeologyGeologyAncient2024}. Obsidian was unique to this non-elite context and was found only at Sanam. Eight materials, such as silver, bronze, agate, carnelian, zeolite, granite and onyx, are more ambiguous,as they could be sourced from either Nubia or Egypt \parencites{andrewNoteZeoliteArtefacts1951}[p.~505, 759, 875-876, 929]{harrellArchaeologyGeologyAncient2024}. This phase is also the third to include ivory amulets, four in total, one from Meroe South and three from Meroe West. Gold amulets were not very popular, making up only 0.7\% of the total. Notably, glass---a more costly material than faience---was not only more common in this phase, with 32 instances versus one in the previous phase.
 
 
-Despite the abundance of imported and local materials, Sanam also yielded five amulets made of readily available resources such as shell, pottery and bone. Additionally, Sanam's remarkable diversity of materials for amulets could be explained by the sizable assemblage, however, it it most likely linked to the site's unique position as a trading post, facilitating access to both local and long-distance exchange networks.
+Despite the abundance of imported and local materials, Sanam also yielded five amulets made of readily available resources such as shell, pottery and bone. Additionally, Sanam's remarkable diversity of materials for amulets could be explained by the sizable assemblage, as well as its key position as a trading post, facilitating access to both local and long-distance exchange networks.
 
 
 \subsection{25th Dynasty-Middle Napatan}

diff --git a/main.tex b/main.tex
@@ -92,7 +92,7 @@
 \fancyfoot[R]{\thepage}
 \renewcommand{\headrulewidth}{0pt}
 
-\setlength{\footskip}{15pt}
+\setlength{\footskip}{25pt}
 
 \fancypagestyle{plain}{
     \fancyhf{}
